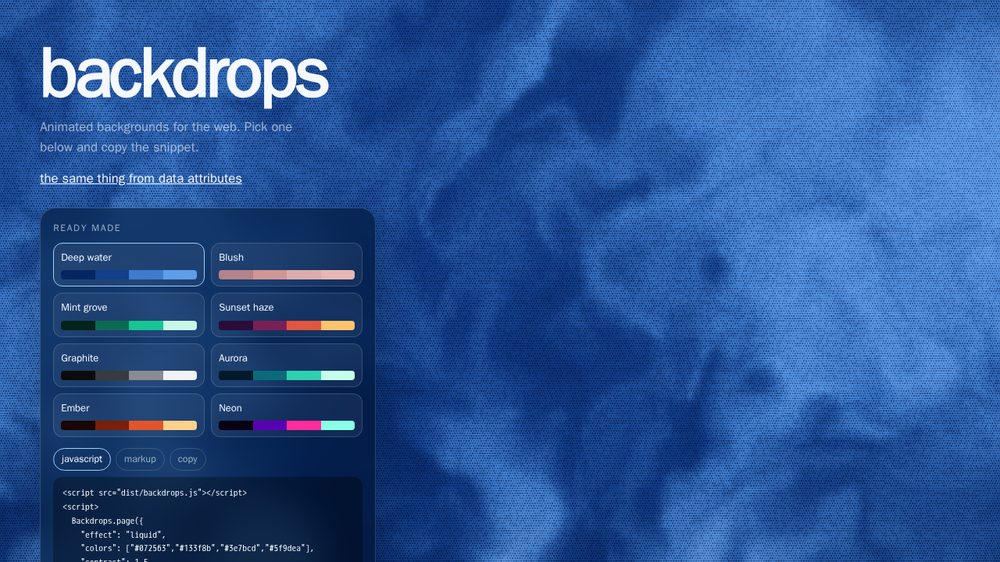
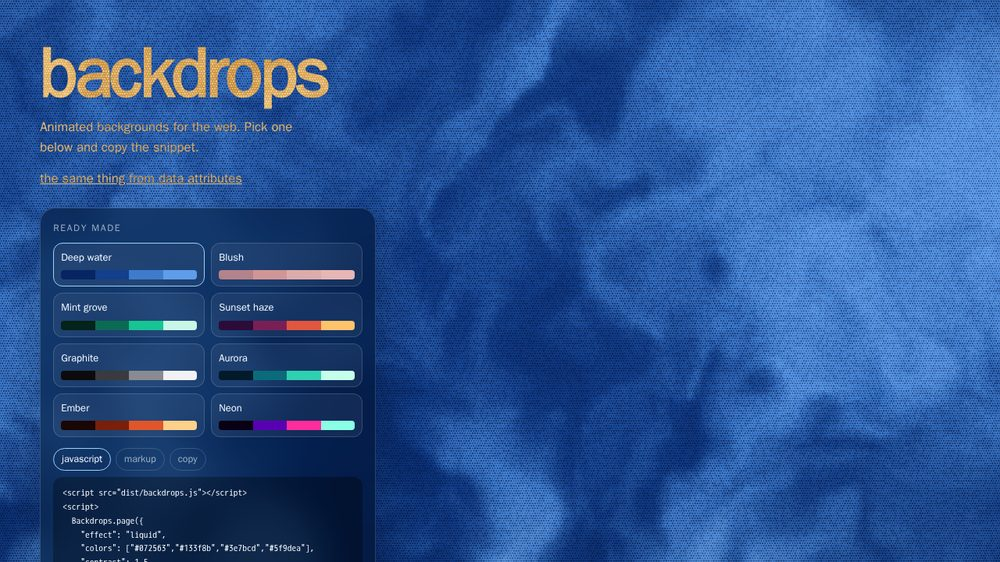
demo: let the heading follow the field with a difference blend
The layer sits below the content, so a blend mode on the text reads through it:
white turns dark where a light part of the field passes behind it and takes the
opposite hue on coloured parts. README explains the blend choices.

Changed region(s): [[0.031, 0.0907, 0.341, 0.2722], [0.031, 0.3025, 0.248, 0.3327]]

diff --git a/demo/index.html b/demo/index.html
@@ -41,6 +41,12 @@
         gap: 24px;
       }
       header { display: grid; gap: 14px; max-width: 34ch; }
+      header h1,
+      header p,
+      header a {
+        color: #fff;
+        mix-blend-mode: difference;
+      }
       h1 { margin: 0; font-size: clamp(38px, 7vw, 92px); line-height: 0.95; letter-spacing: -0.045em; font-weight: 800; }
       p { margin: 0; color: var(--dim); font-size: clamp(14px, 1.3vw, 17px); }
       a { color: var(--ink); }

diff --git a/README.md b/README.md
@@ -157,6 +157,22 @@ Backdrops.page({ effect: 'waves' });
 `goo` options: `blobCount`, `blobSize`, `spread`, `wobble`, `softness`, `blur`, `threshold`,
 `background`, `renderScale`, `debug: 'raw'`.
 
+## Text that follows the field
+
+The layer sits under your content, so anything above it can read the field through a blend mode:
+
+```css
+header h1,
+header p {
+  color: #fff;
+  mix-blend-mode: difference;
+}
+```
+
+White then turns dark exactly where a light part of the field passes behind it, and takes the opposite hue
+on coloured parts. `exclusion` is a softer version of the same idea, `overlay` and `soft-light` follow the
+tone instead of inverting. Keep the blended elements out of isolated stacking contexts and above the layer.
+
 ## Gallery
 
 `demo/index.html` shows eight ready made looks on both engines. Pick one and the snippet for it is right
